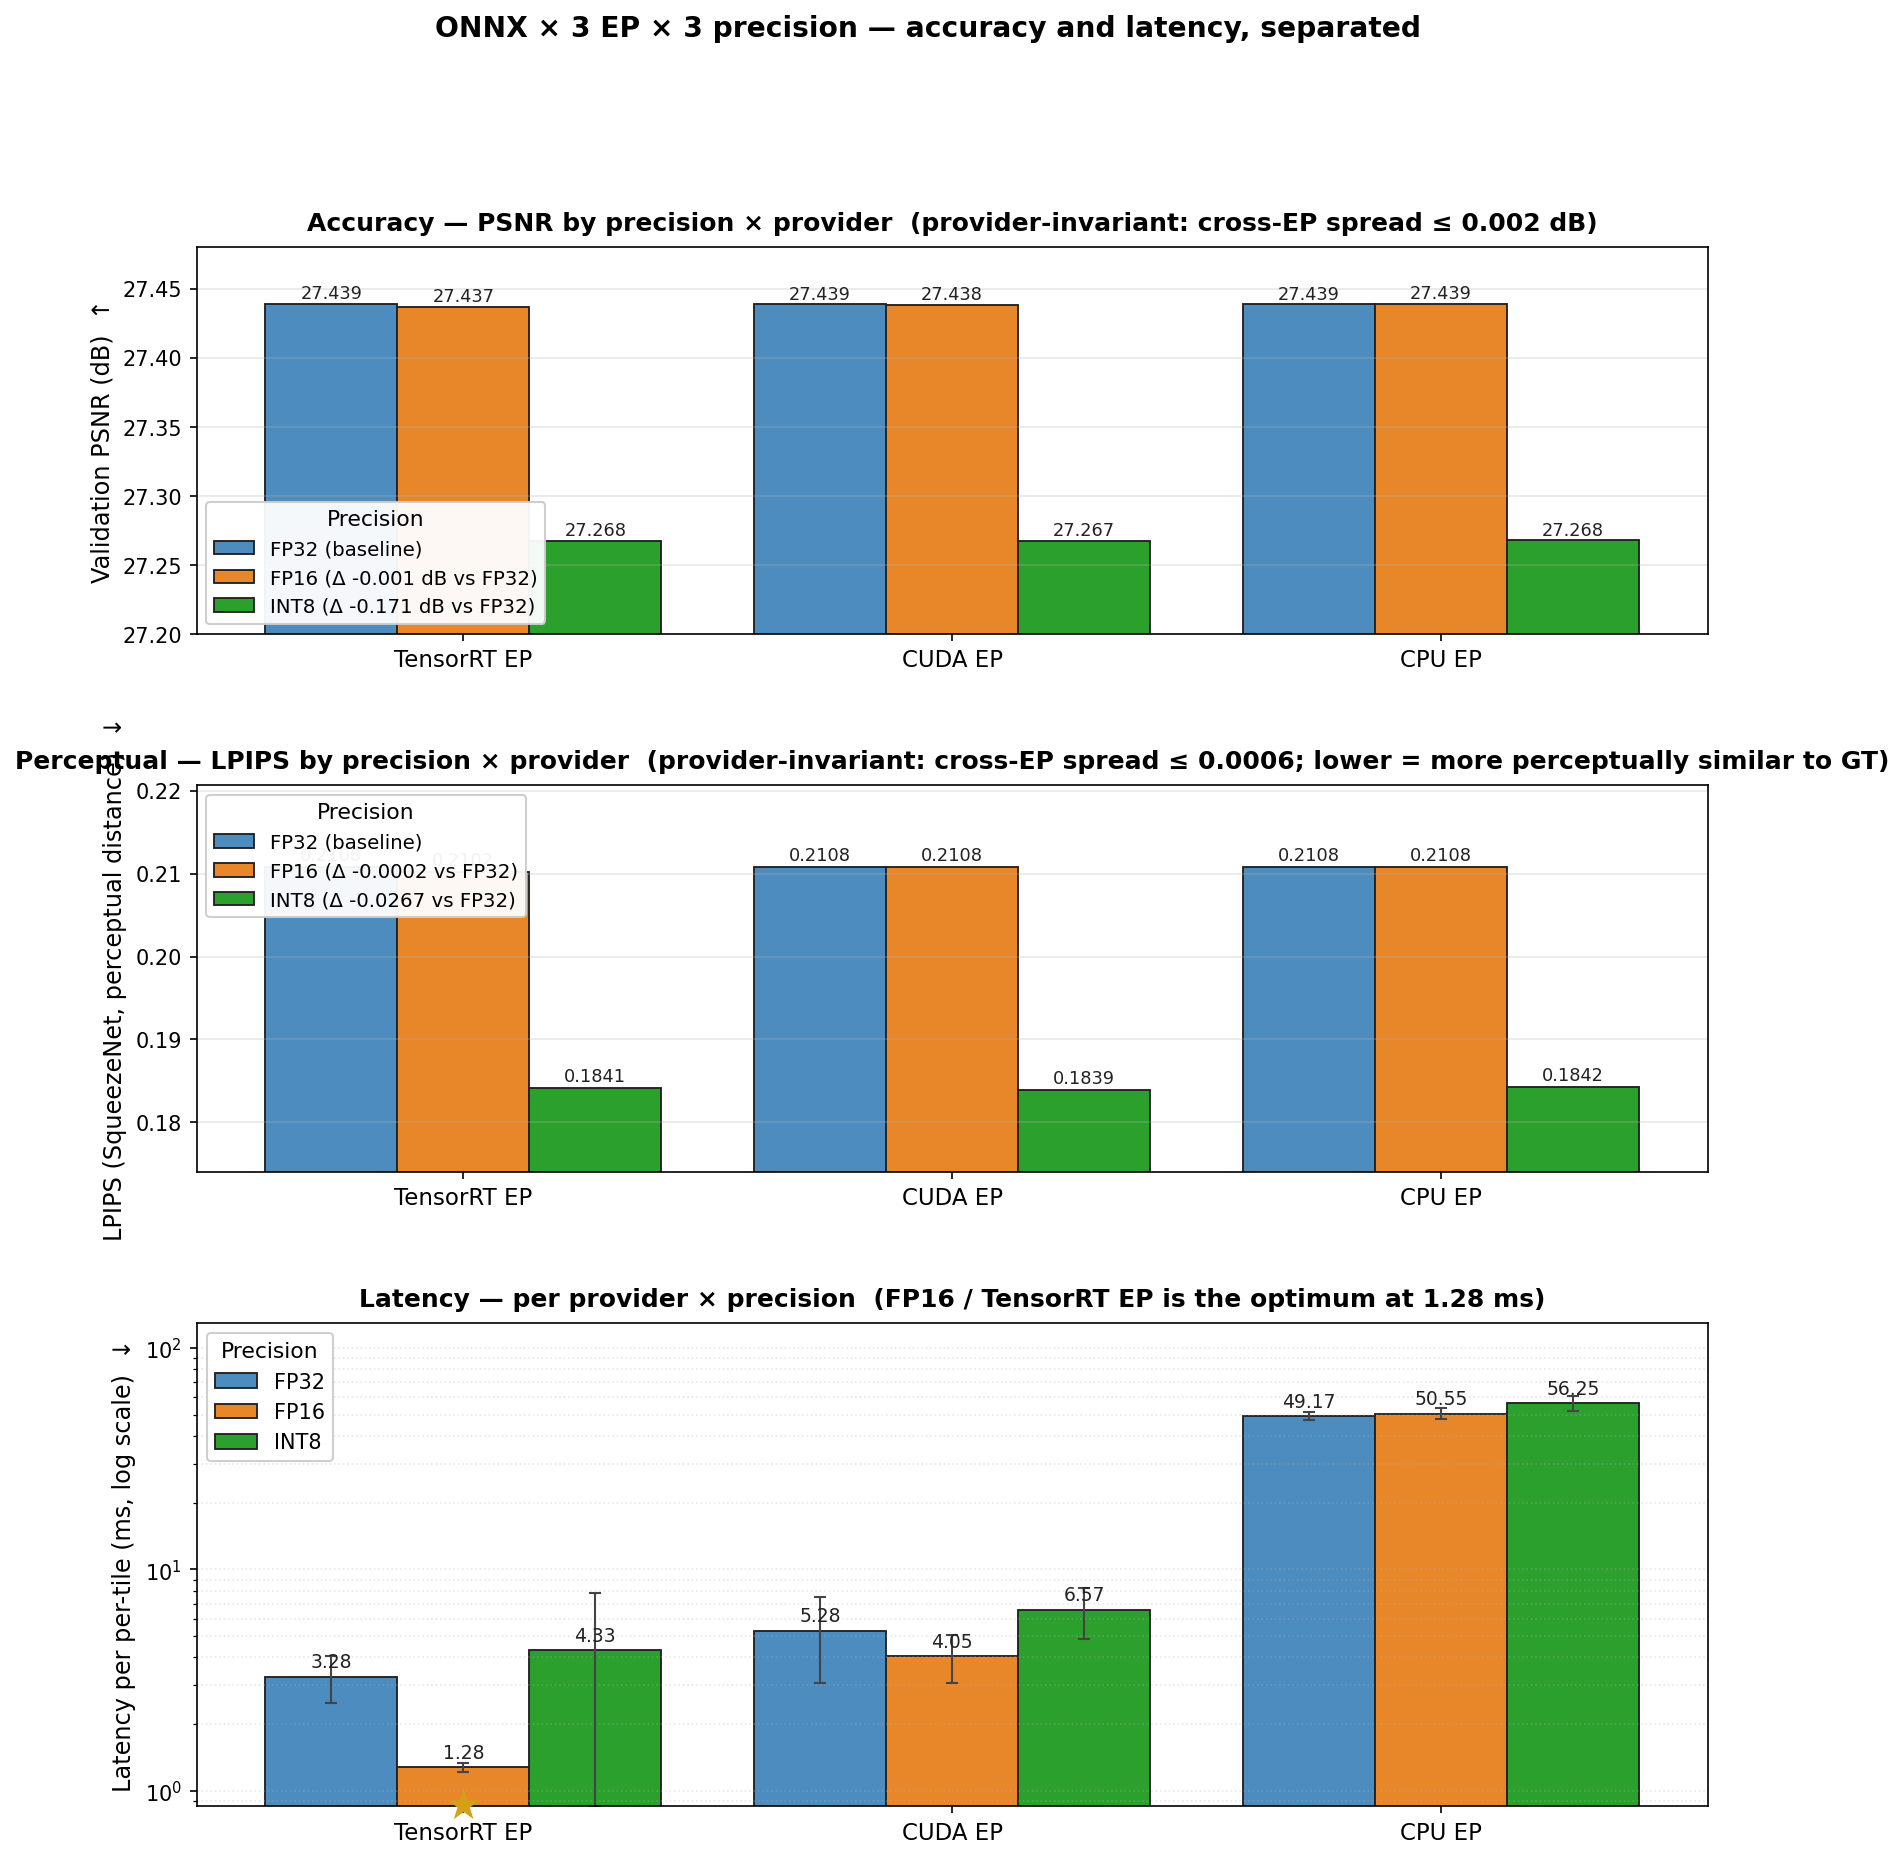
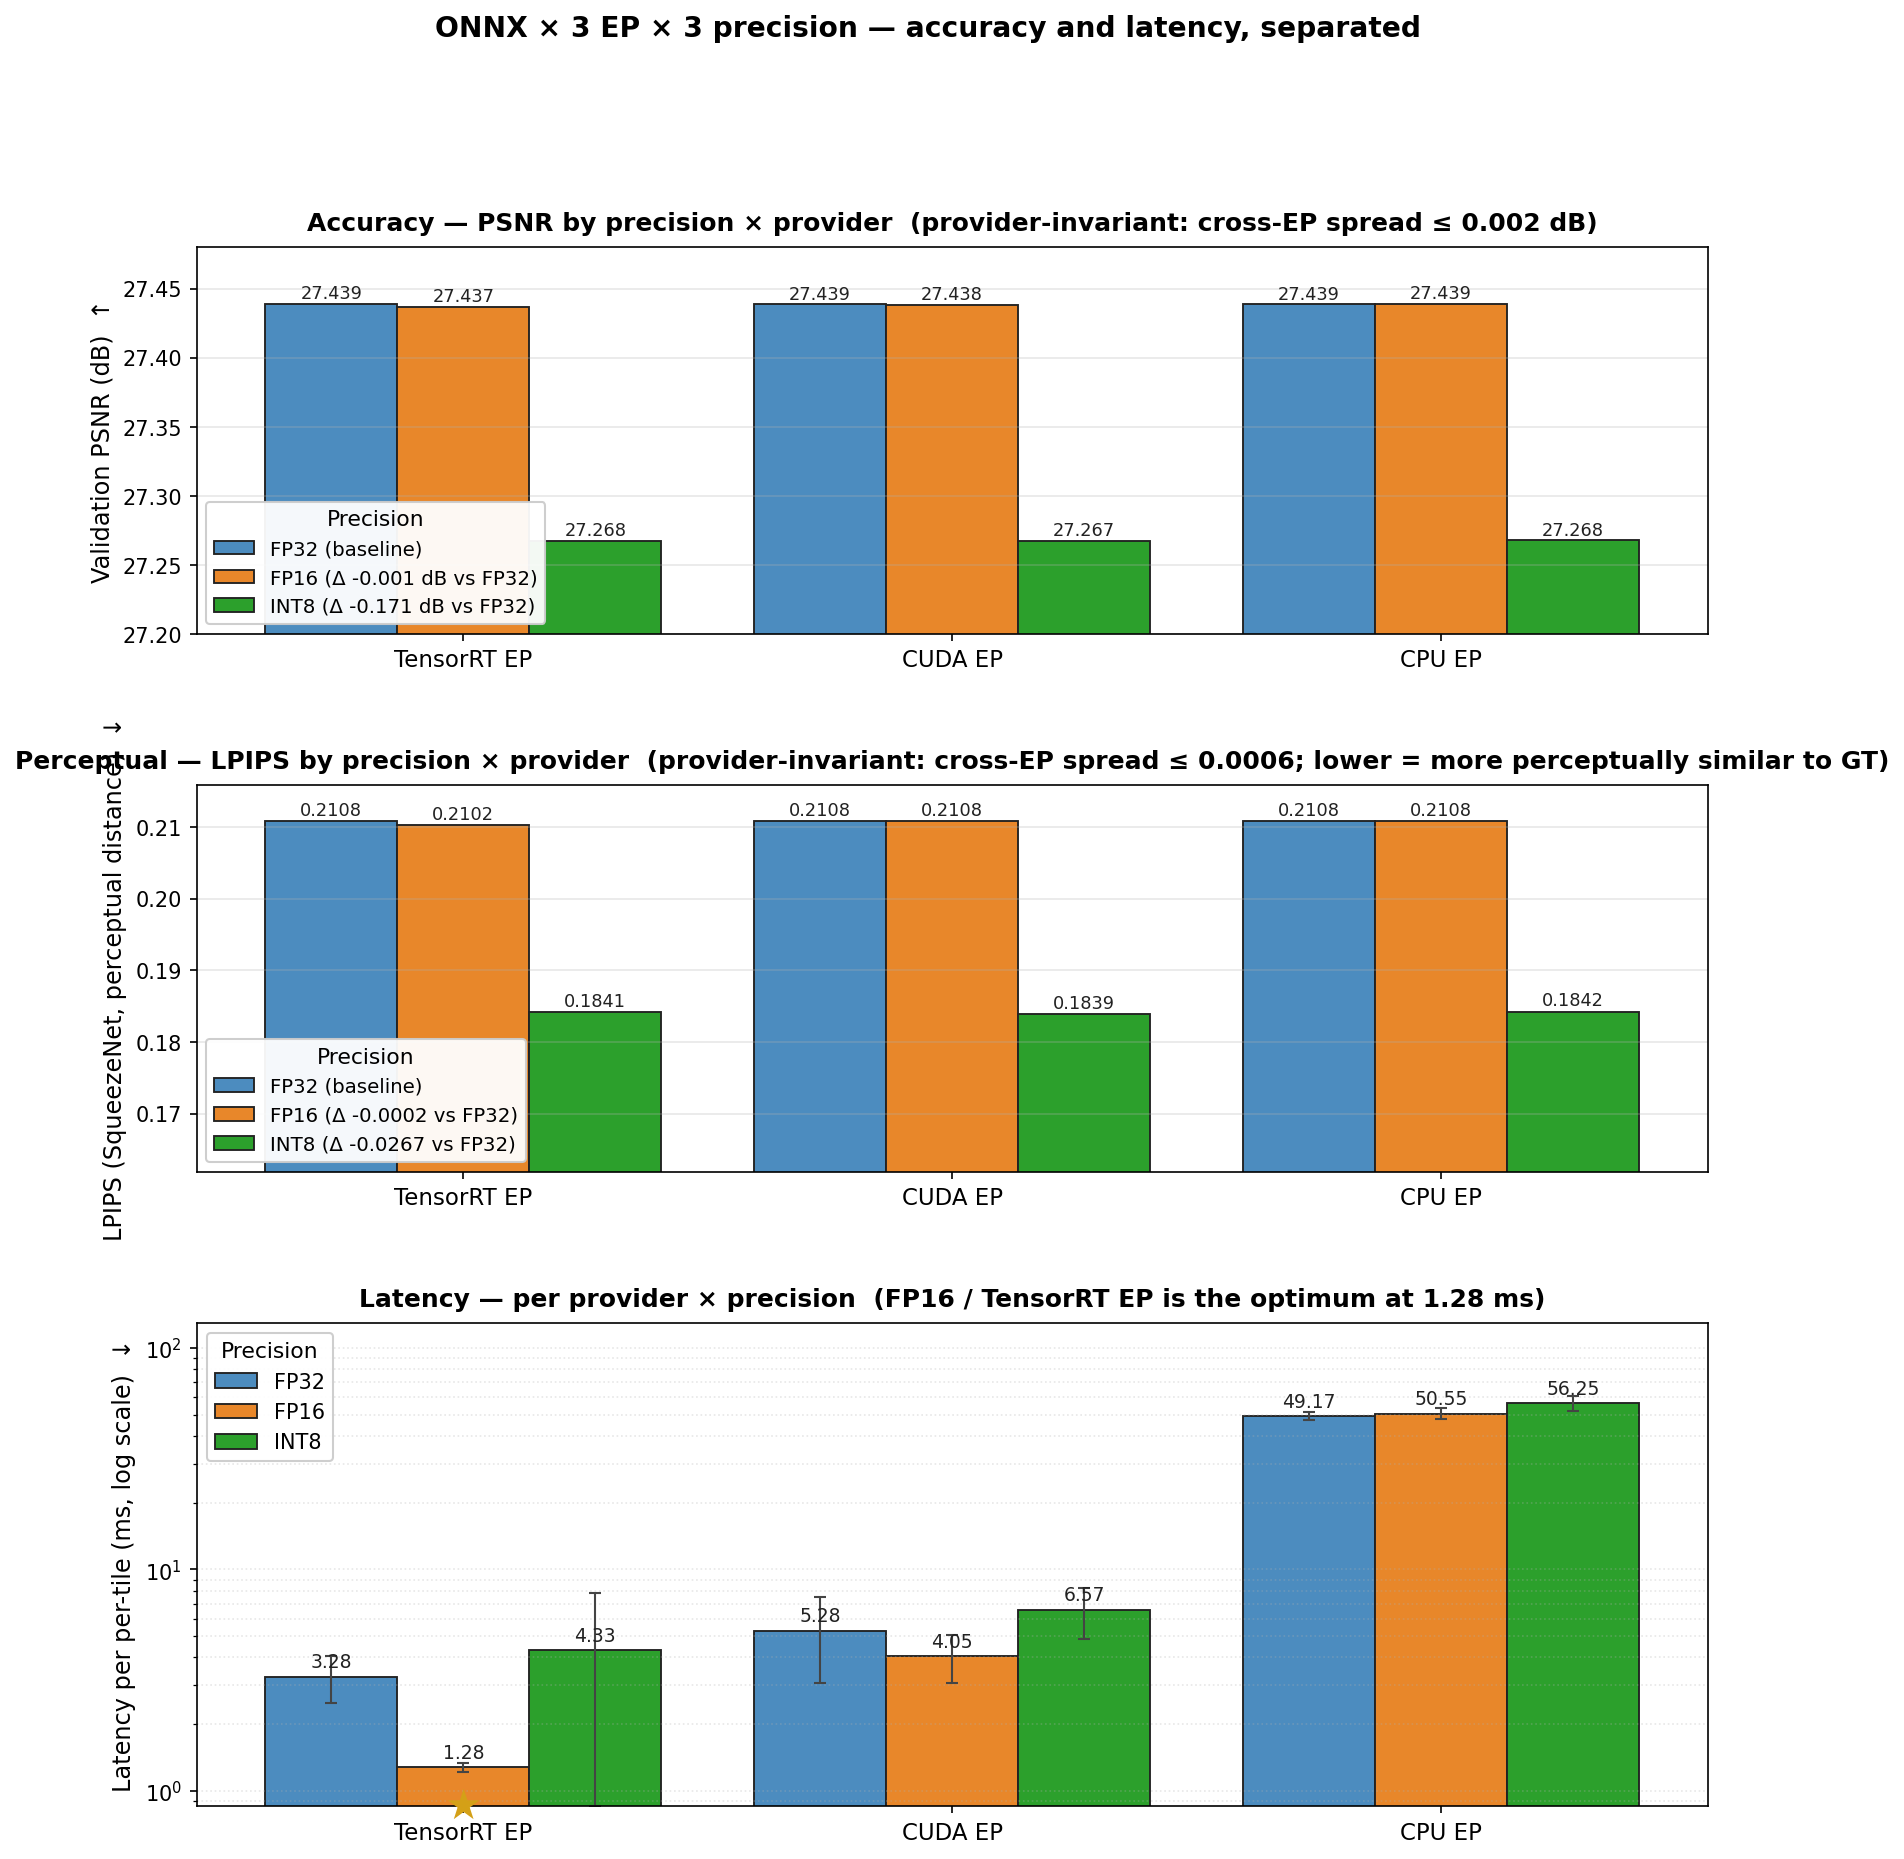
§3.2 LPIPS panel: move legend to lower-left so it stops blocking FP32/FP16 bars

diff --git a/src/deployment/section3_figures.py b/src/deployment/section3_figures.py
@@ -236,11 +236,11 @@ def make_precision_ep_breakdown(csv_path: Path, out_path: Path) -> None:
                     f"{val:.4f}", ha="center", fontsize=8.5, color="#222",
                 )
 
-        # Y-range: tight around observed values to make Δ visible
+        # Y-range: leave extra room at the BOTTOM for the legend (which sits
+        # at lower-left so it doesn't clash with the FP32/FP16 bars at the top).
         all_lp = [lpips_lookup[(p, q)] for p in precisions for q in providers]
         lp_min, lp_max = min(all_lp), max(all_lp)
-        margin = (lp_max - lp_min) * 0.18 + 0.005
-        ax_lpips.set_ylim(lp_min - margin, lp_max + margin)
+        ax_lpips.set_ylim(lp_min - 0.022, lp_max + 0.005)
         ax_lpips.set_xticks(x)
         ax_lpips.set_xticklabels(provider_labels, fontsize=11)
         ax_lpips.set_ylabel("LPIPS (SqueezeNet, perceptual distance)  ↓", fontsize=11.5)
@@ -250,7 +250,7 @@ def make_precision_ep_breakdown(csv_path: Path, out_path: Path) -> None:
             fontsize=12, fontweight="bold", pad=8,
         )
         ax_lpips.legend(
-            title="Precision", loc="upper left",
+            title="Precision", loc="lower left",
             fontsize=9.5, title_fontsize=10.5, framealpha=0.95,
         )
         ax_lpips.grid(axis="y", alpha=0.3)